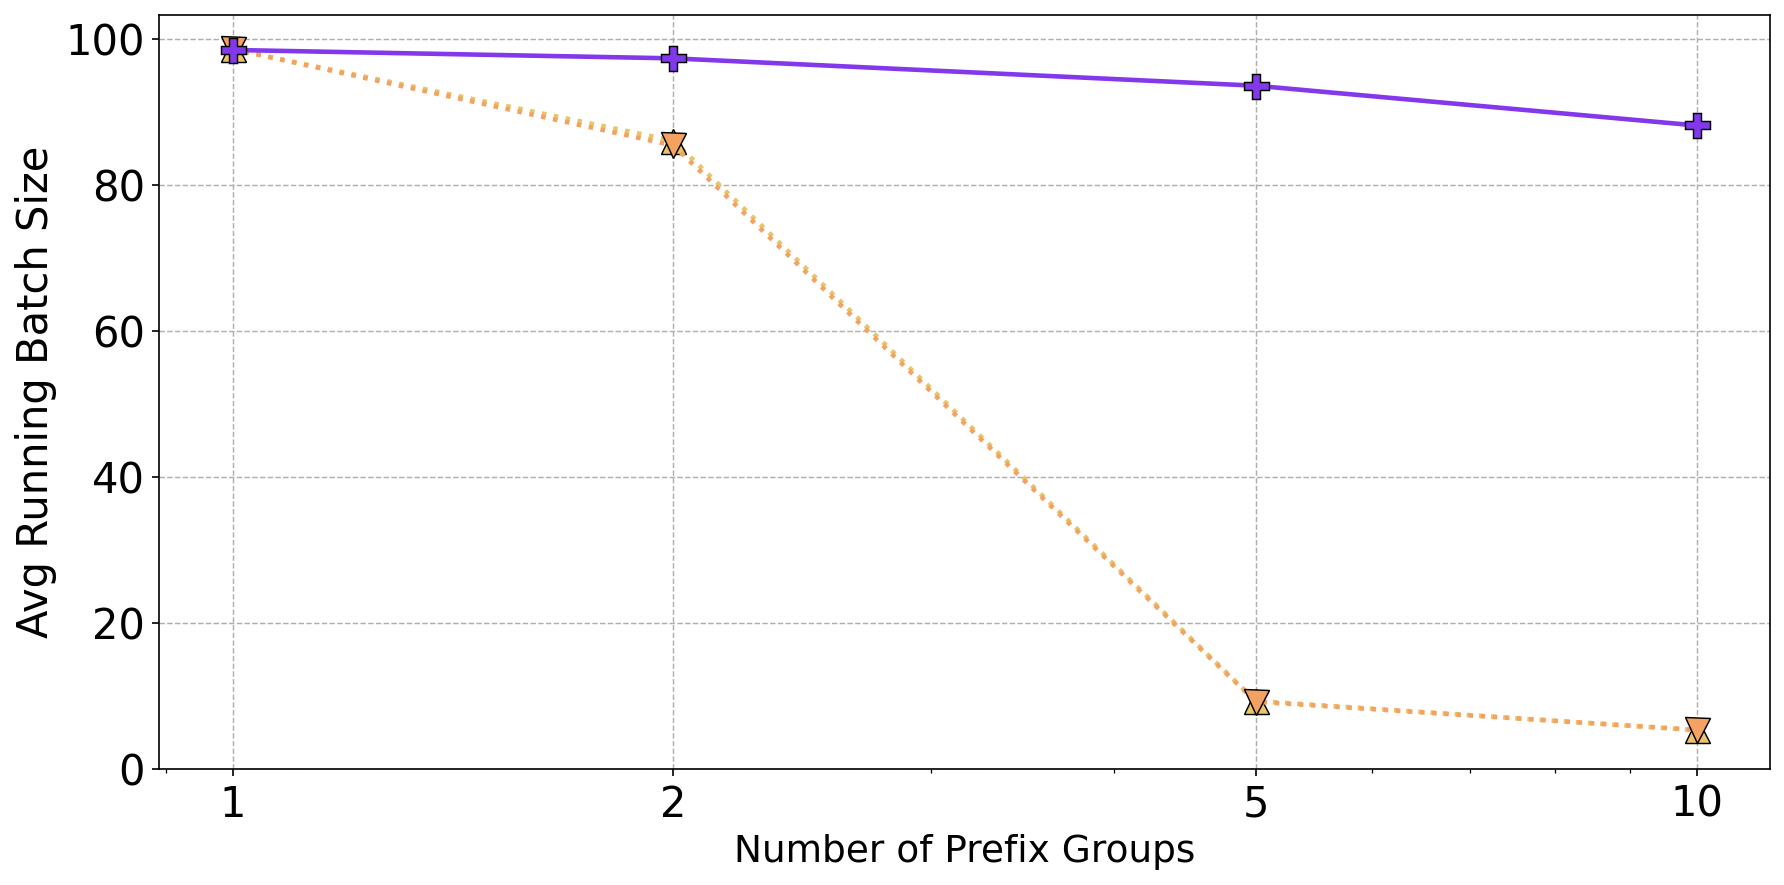
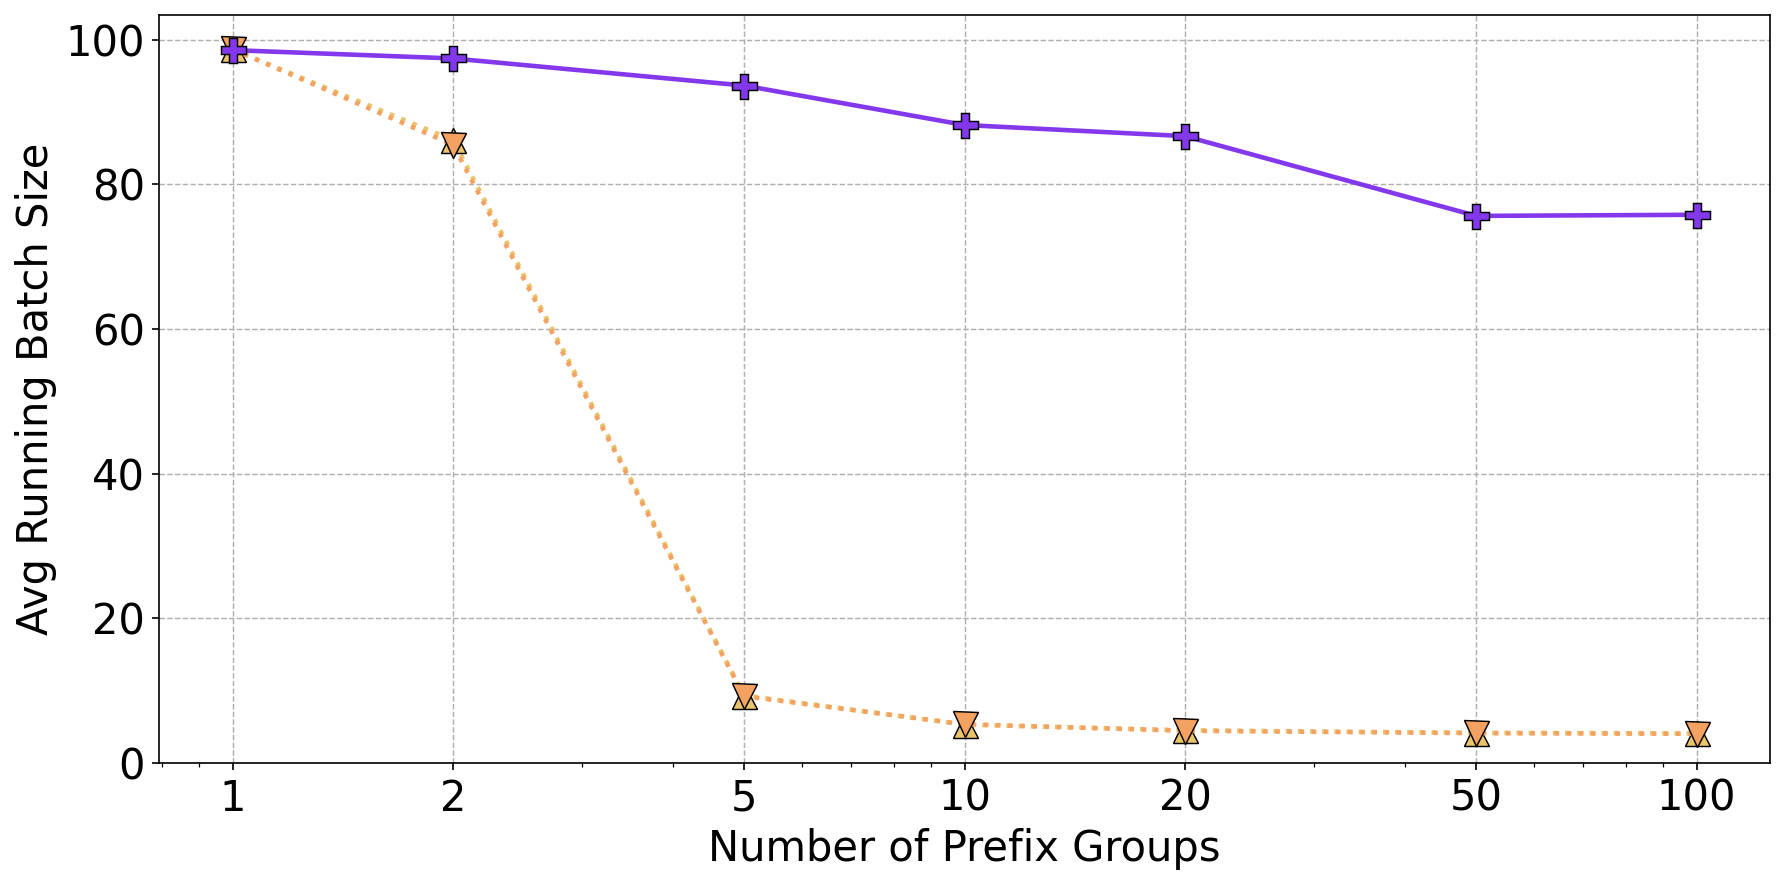
long chat plots

diff --git a/code/vllm/longchat_families_logs/plot.py b/code/vllm/longchat_families_logs/plot.py
@@ -99,7 +99,7 @@ for path in log_files:
         policy = "FCFS"
     if policy == "dynamic_batching":
         policy = "DynBatch"
-    if policy == "chunked_hash_tree_bandit":
+    if policy == "chunked_hash_tree_bandit" or policy == "family_load":
         policy = "Feather"
     if policy == "chunked_hash_tree_heuristic":
         continue
@@ -185,13 +185,13 @@ def make_plot(metric_key, ylabel, title, outpath):
     ax.set_xticks(all_fams)
     ax.get_xaxis().set_major_formatter(ticker.ScalarFormatter())
 
-    ax.set_xlabel("Number of Prefix Groups", fontsize=18)
+    ax.set_xlabel("Number of Prefix Groups", fontsize=20)
     ax.set_ylabel(ylabel, fontsize=20)
 
     ax.tick_params(axis="both", labelsize=20)
 
     if metric_key == "throughput":
-        ax.legend(fontsize=15, framealpha=0.3, ncol=2)
+        ax.legend(fontsize=20, framealpha=0.3, ncol=2)
 
     ax.grid(True, linewidth=0.7, linestyle="--")
     ax.set_ylim(bottom=0)
